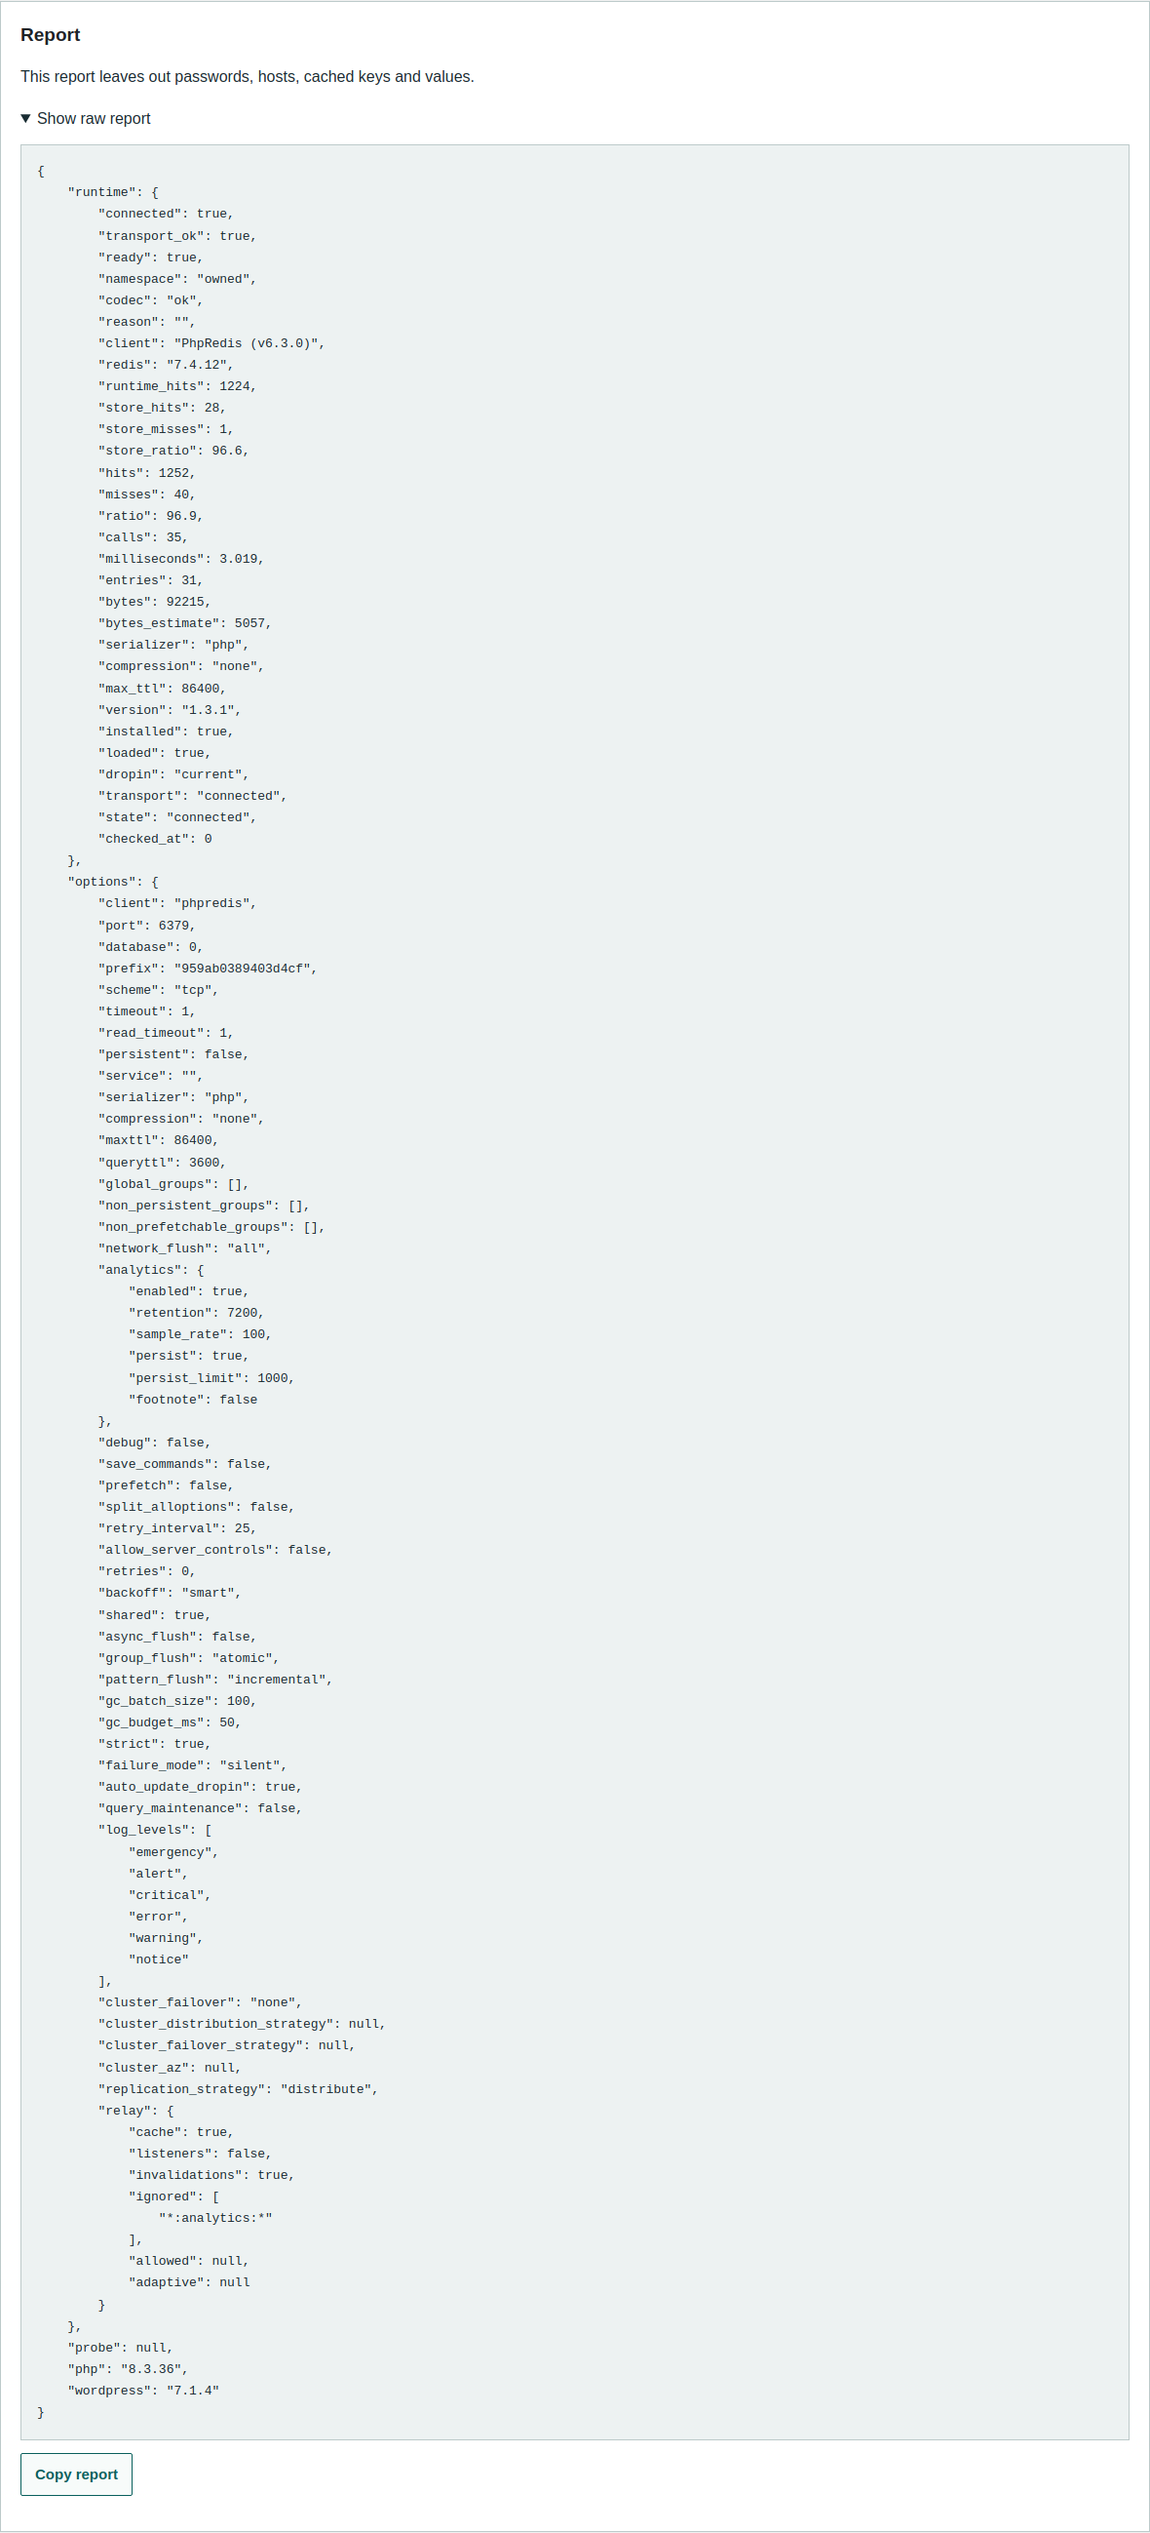
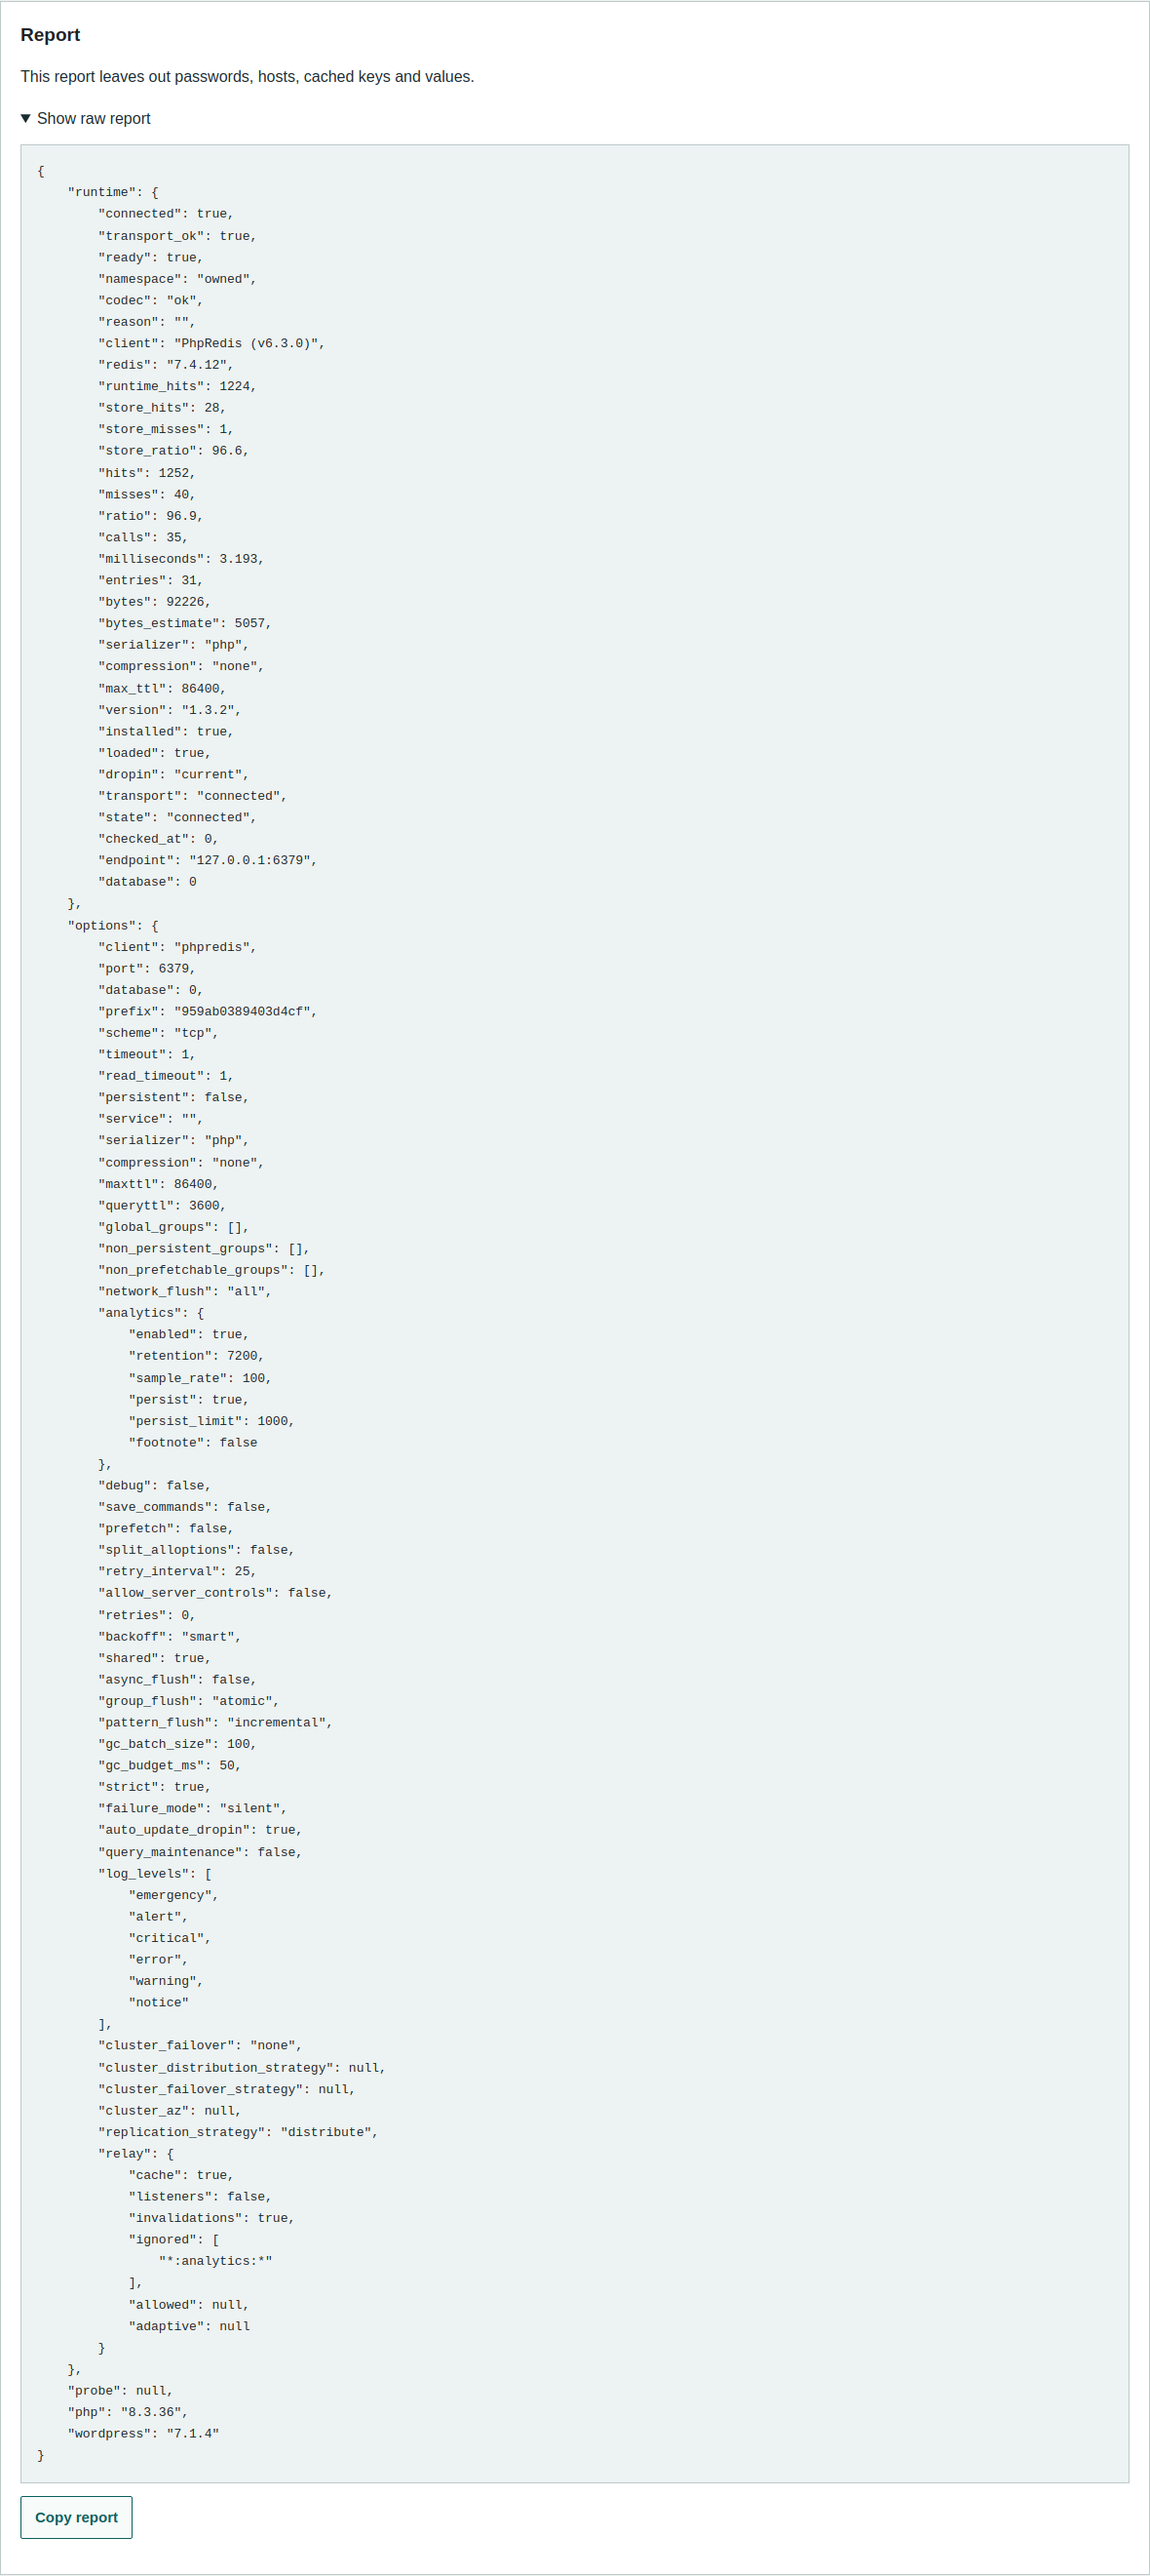
Publish the 1.3.2 screenshots and validation

Changed region(s): [[0.0305, 0.0, 0.3356, 0.9045], [0.0305, 0.9045, 0.1831, 0.9981]]

diff --git a/docs/VALIDATION-1.3.2.md b/docs/VALIDATION-1.3.2.md
@@ -1,0 +1,41 @@
+# HarborCache 1.3.2 validation
+
[1 lines of base64/hex data omitted]
+
+## What changed
+
+1.3.2 closes the audit findings. It deletes the legacy Predis wrapper and its public `FLUSHDB` methods. Namespace rotation on first enable now uses the selected client and fails the enable if rotation fails, instead of silently reusing old entries. Analytics retention is checked every minute instead of every hour. Status reads endpoint, database, serializer, compression and TTL from the live cache, so a saved connection cannot be mistaken for the live one. Namespace reclaim requires a server-side `confirm=1`. Query maintenance rotates only groups whose `wp_cache_get_last_changed()` moved. The group table is capped at 100 rows, chart points render only on the visible panel, and the inherited no-op plugin methods are gone. The connection file gets a group/world-readable warning, uninstall removes older config files, and CI now includes query-pruning, status-read and uninstall checks.
+
+## Linux CI matrix
+
+Run [42033643274](https://github.com/shahidirfan100/harborcache/actions/runs/42033643274) passed all fourteen jobs: PHP 7.4, 8.2, 8.3, 8.4 and 8.5; Redis 6, 7 and 8; WordPress 6.6, 6.7, 6.8, 7.0, 7.1 and latest; Predis, PhpRedis and Credis; PHP/igbinary with none/LZF/LZ4/Zstandard; ACL, trusted TLS, rejected certificate and Unix socket; concurrent workers; Redis stop/start; WooCommerce; multisite; PHP-FPM HTTP smoke and restart; Relay default/adaptive; relocated ZIP; package parity; and uninstall cleanup. Plugin Check 2.1.0 on the exact ZIP reported `Success: Checks complete. No errors found.`
+
+## Interface capture
+
+Run [42034457600](https://github.com/shahidirfan100/harborcache/actions/runs/42034457600) captured the five screens and the widget from the exact 1.3.2 ZIP on WordPress 7.1.4, PHP 8.3, PhpRedis 6.3.0 and Redis 7.4.12. The capture reported zero console errors, zero size failures and no PHP notices. It checked four readiness items, three settings actions, no horizontal overflow, clicked Test saved connection, ran the cache self-test and tabbed to an interactive control. The PNGs in `media/` and `media-capture/` and the record in `media/screenshots.json` are refreshed.
+
+## Local checks (Windows, PHP 8.5.10)
+
+| Suite | Result |
+| --- | --- |
+| `php tests/status-matrix.php` | 0 failures, including live-config fields |
+| `php tests/query-pruning.php` | 0 failures, changed-only rotation |
+| `php tests/probe-parity.php` | 0 failures |
+| `php tests/safety-regressions.php` | 21 passed |
+| `php tests/review-regressions.php` | 9 passed |
+| `php tests/dropin-writer.php` | 12 passed |
+| `php tests/connection-check.php` | passed |
+| `php tests/metrics-failure.php` | passed |
+| `php tests/conflict-notice.php` | passed |
+| `python tools/build-release.py --verify` | 601 files, source/ZIP parity passed |
+
+## Performance
+
+The cache engine is unchanged from 1.3.0. The measured table still applies: full-plugin operation PHP CPU **+2.6%** against Redis Object Cache 3.0.0, request-memory reads **−15.4%**, engine-only CPU **+5.0%**, bootstrap CPU **+4.0%**. See `VALIDATION-1.3.0.md` for the full table and limits. The analytics trim now runs every minute, so the sampled set is bounded sooner than in 1.3.1.
+
+## Limits
+
+- The local Windows host has no Redis server, Docker or WSL, so live behaviour is certified by GitHub Actions.
+- Native Cluster/Sentinel failover and sustained production traffic remain separate gates.
+- Query maintenance still rotates whole query groups. It no longer touches unchanged groups, but a group with any data change is rebuilt.
+- `harborcache-config.php` permissions depend on the host. The warning helps, but `wp-config.php` constants remain the strongest production choice.

diff --git a/media/README.md b/media/README.md
@@ -1,6 +1,6 @@
 # HarborCache media
 
-HarborCache interface screenshots were captured on 2026-11-04 from the exact `harborcache-1.3.1.zip` release running in GitHub Actions: WordPress 7.1.4, PHP 8.3.36, PhpRedis 6.3.0, Redis 7.4.12 and MySQL 8.0. The capture job is `.github/workflows/screenshots.yml`; it installs WordPress, activates the plugin, installs the owned drop-in, seeds the fixture, drives a headless Chromium session and uploads the PNGs. The capture run is linked from `screenshots.json`. The Status screen shows the compact readiness grid and the widget shows a summary plus a readable chart.
+HarborCache interface screenshots were captured on 2026-11-04 from the exact `harborcache-1.3.2.zip` release running in GitHub Actions: WordPress 7.1.4, PHP 8.3.36, PhpRedis 6.3.0, Redis 7.4.12 and MySQL 8.0. The capture job is `.github/workflows/screenshots.yml`; it installs WordPress, activates the plugin, installs the owned drop-in, seeds the fixture, drives a headless Chromium session and uploads the PNGs. The capture run is linked from `screenshots.json`. The Status screen shows the compact readiness grid and the widget shows a summary plus a readable chart.
 
 Screenshots 1 to 7 show Status, Analytics, Settings, Cache, Diagnostics, the expanded raw report and the dashboard widget. The two mobile files show Settings and the widget at a 375px viewport. Desktop captures clip the plugin panel (`#harborcache`) at its 1180px maximum width; the WordPress admin chrome is outside the frame. The plugin version is visible in each panel footer.
 
